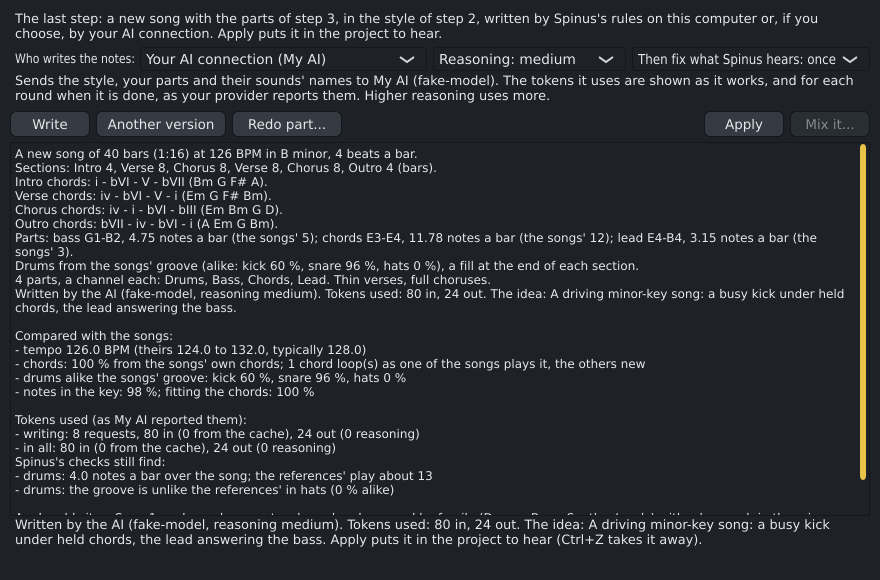
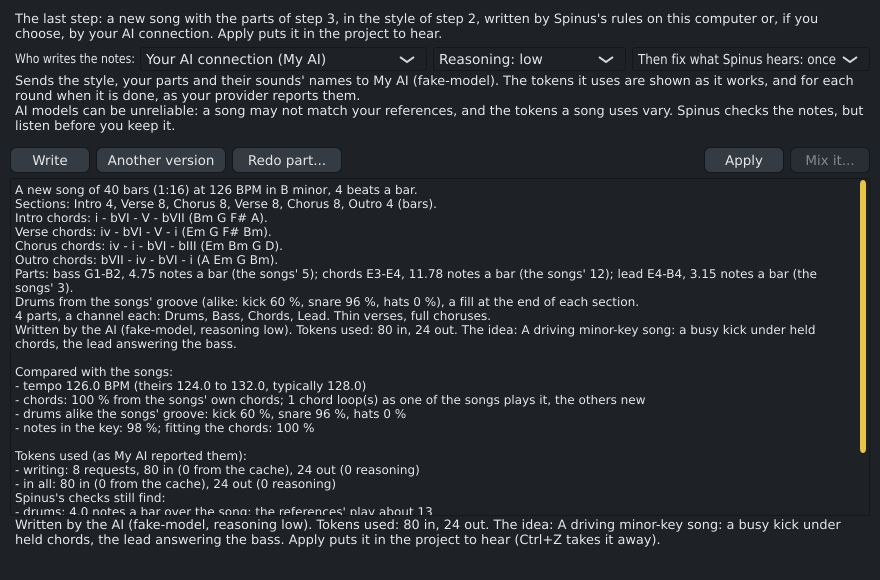
Track creator AI writer: low reasoning by default, and a disclaimer
Owner answers on #36. The page starts at low reasoning (real runs showed
the harness reasoning again before every step); the list still offers
the model's own, medium, high and extra high, the higher ones labelled
as using more or many more tokens. A model that refuses a level is asked
once more with the lowest it names (or medium for low), for the rest of
the loop too, and the song's note says so. No step limit or groove
check: the page and the manual say that AI models can be unreliable and
to listen before keeping a song.

Claude-Session: https://claude.ai/code/session_0119Ng2zVPDK28ZkS9jKhGci

diff --git a/src/ui/SongWriterPanel.cpp b/src/ui/SongWriterPanel.cpp
@@ -189,11 +189,14 @@ SongWriterPanel::SongWriterPanel (Session& s, std::function<Context()> c) : sess
     };
     effortBox.addItem ("Reasoning: the model's own", 1);
     effortBox.addItem ("Reasoning: low", 2);
-    effortBox.addItem ("Reasoning: medium", 3);
-    effortBox.addItem ("Reasoning: high", 4);
-    effortBox.addItem ("Reasoning: extra high", 5);
-    effortBox.setSelectedId (1, juce::dontSendNotification);
-    effortBox.setTooltip ("How hard the model thinks before it writes: higher levels use more tokens");
+    effortBox.addItem ("Reasoning: medium (more tokens)", 3);
+    effortBox.addItem ("Reasoning: high (many more tokens)", 4);
+    effortBox.addItem ("Reasoning: extra high (many more tokens)", 5);
+    // Low by default (owner decision): the harness asks for each step, and reasoning before every one adds up. A
+    // model without low uses the lowest it offers, and the page says so.
+    effortBox.setSelectedId (2, juce::dontSendNotification);
+    effortBox.setTooltip ("How hard the model thinks before each step: low at first; higher levels use many more "
+                          "tokens. A model without the level chosen uses the lowest it offers");
     roundsBox.addItem ("Then fix what Spinus hears: no", 1);
     roundsBox.addItem ("Then fix what Spinus hears: once", 2);
     roundsBox.addItem ("Then fix what Spinus hears: twice", 3);
@@ -869,7 +872,9 @@ void SongWriterPanel::refreshConnection()
                 aiAvailable ? "Sends the style, your parts and their sounds' names to " + connectionName + " (" +
                                   result["model"].toString() +
                                   "). The tokens it uses are shown as it works, and for each round when it is done, "
-                                  "as your provider reports them. Higher reasoning uses more."
+                                  "as your provider reports them.\nAI models can be unreliable: a song may not match "
+                                  "your references, and the tokens a song uses vary. Spinus checks the notes, but "
+                                  "listen before you keep it."
                             : result["reason"].toString(),
                 juce::dontSendNotification);
             updateButtons();
@@ -1061,7 +1066,7 @@ void SongWriterPanel::resized()
     if (refineButton.isVisible())
         refineButton.setBounds (area.removeFromTop (26).removeFromLeft (420));
     if (infoLabel.isVisible())
-        infoLabel.setBounds (area.removeFromTop (34));
+        infoLabel.setBounds (area.removeFromTop (70)); // four lines: what is sent, the tokens, the disclaimer
     area.removeFromTop (4);
     {
         auto r = area.removeFromTop (28);

diff --git a/ai/spinus_ai/gateway.py b/ai/spinus_ai/gateway.py
@@ -617,7 +617,43 @@ async def complete_responses(
 # ---------------------------------------------------------------------------------------------------
 
 
+def offered_effort(asked: str, error: str) -> str | None:
+    """The level to ask again with when a model refused the reasoning level `asked`: the lowest it says it supports
+    ("Supported values are: 'medium' and 'high'"), else medium for low; None when the refusal is about something
+    else, or names no level to use."""
+    if asked not in EFFORTS or not ("effort" in error.lower() or "reasoning" in error.lower()):
+        return None
+    if "turn its reasoning off" in error:  # the chat API's own retry already failed: no level would do
+        return None
+    tail = error[error.lower().find("support") :] if "support" in error.lower() else ""
+    named = [level for level in EFFORTS if level != asked and f"'{level}'" in tail]
+    if named:
+        return named[0]
+    # Nothing named: only the default low (a model whose least reasoning is more) steps up, never a level the user
+    # chose higher, which is not guessed at.
+    return "medium" if asked == "low" else None
+
+
 async def complete(
+    client: httpx.AsyncClient, connection: Connection, key: str | None, request: Request, on_text: OnText
+) -> Completion:
+    """The model's answer. A model that refuses the reasoning level asked for is asked once more with the lowest
+    level it offers (request.effort changes, so a tool loop's later turns use it too), and the answer says so."""
+    try:
+        return await complete_once(client, connection, key, request, on_text)
+    except ProviderError as error:
+        asked = request.effort
+        level = offered_effort(asked, str(error)) if error.kind == "bad_request" else None
+        if level is None:
+            raise
+        request.effort = level
+        completion = await complete_once(client, connection, key, request, on_text)
+        said = f"{request.model} does not reason at the level '{asked}', so '{level}', the lowest it offers, was used."
+        completion.notice = f"{completion.notice} {said}".strip()
+        return completion
+
+
+async def complete_once(
     client: httpx.AsyncClient, connection: Connection, key: str | None, request: Request, on_text: OnText
 ) -> Completion:
     try:

diff --git a/ai/tests/test_harness.py b/ai/tests/test_harness.py
@@ -462,3 +462,35 @@ async def test_a_model_name_with_slashes_is_a_file_name(tmp_path: Path) -> None:
         "anthropic_claude-sonnet-5.5-harness-default.song.json",
         "anthropic_claude-sonnet-5.5-one-shot-default.song.json",
     ]
+
+
+def test_a_refused_reasoning_level_becomes_the_lowest_offered() -> None:
+    from spinus_ai.gateway import offered_effort
+
+    said = "Unsupported value: 'reasoning.effort' does not support 'low' with this model. Supported values are: "
+    assert offered_effort("low", said + "'medium', 'high' and 'xhigh'.") == "medium"
+    assert offered_effort("low", "reasoning effort low is not available for this model") == "medium"
+    assert offered_effort("xhigh", "reasoning effort xhigh is not available") is None  # nothing named
+    assert offered_effort("high", "Unsupported value: 'reasoning_effort' 'high'.") is None  # not guessed at
+    assert offered_effort("low", "max_tokens: 64000 > 8192") is None  # another refusal
+    assert offered_effort("", "reasoning effort") is None
+
+
+async def test_the_harness_says_when_the_model_lacks_the_level_asked(tmp_path: Path) -> None:
+    sent: list[dict[str, Any]] = []
+    fake = harness.FakeModel([[("rules_write", {"part": "bass"})], [("finish", {"summary": "s"})]], {})
+
+    def handler(request: httpx.Request) -> httpx.Response:
+        body = json.loads(request.content)
+        sent.append(body)
+        if body.get("output_config", {}).get("effort") == "low":
+            message = "output_config.effort: 'low' is not supported by this model. Supported values: 'medium', 'high'"
+            return httpx.Response(400, json={"type": "error", "error": {"message": message}})
+        return fake(request)
+
+    service = make_service(tmp_path, handler)
+    await connect(service)
+    song = await run_job(service, "ai.v1.song.compose", params(effort="low"))
+    efforts = [r["output_config"]["effort"] for r in sent]
+    assert efforts == ["low", "medium", "medium"]  # asked once at low; the rest of the loop at medium
+    assert "does not reason at the level 'low', so 'medium', the lowest it offers, was used" in song["note"]

diff --git a/ai/spinus_ai/harness.py b/ai/spinus_ai/harness.py
@@ -858,6 +858,7 @@ class Run:
     model: str = ""
     turns: int = 0
     stopped: bool = False  # the user said stop now
+    notices: list[str] = field(default_factory=list)  # what the provider changed (a reasoning level it lacks)
 
     def remember_if_best(self) -> None:
         count = len(self.workspace.issues())
@@ -902,6 +903,8 @@ async def session(
     async def on_turn(completion: Completion, route: Route) -> None:
         usage_log.add(route.connection.id, compose.FEATURE, completion.usage)
         run.by, run.model = answered_by(completion.model, []), route.model
+        if completion.notice and completion.notice not in run.notices:
+            run.notices.append(completion.notice)
         run.requests.append(
             {
                 "input": completion.usage.input_tokens,
@@ -988,7 +991,7 @@ def result_song(
         "workspace": ws.export(),
         "answer": {"parts": {p: {} for p in ws.notes}},  # what the notes say "left out" against
     }
-    song["note"] = compose.written_note(setup, composed) + note
+    song["note"] = compose.written_note(setup, composed) + note + "".join(f" {n}" for n in run.notices)
     if usage.get("cached"):
         song["note"] += f" {int(usage['cached']):,} of the input tokens were read from the provider's cache."
     return compose.finish(song, setup, composed)

diff --git a/tests/ui/SongWriterPanelTests.cpp b/tests/ui/SongWriterPanelTests.cpp
@@ -336,6 +336,8 @@ TEST_CASE ("Track creator: the AI connection composes the song with the harness'
     REQUIRE (waitFor ([&] { return panel.getInfoText().contains ("My local model"); }));
     INFO (panel.getInfoText());
     CHECK (panel.getInfoText().contains ("shown as it works"));
+    CHECK (panel.getInfoText().contains ("AI models can be unreliable"));
+    CHECK (panel.getEffort() == "low"); // the default
     CHECK_FALSE (panel.getInfoText().contains ("About"));
     panel.setAiWriter (true);
     REQUIRE (panel.isAiWriter());
@@ -466,7 +468,6 @@ TEST_CASE ("Track creator AI writer screenshot for the manual", "[.screenshot][m
     panel.refreshConnection();
     REQUIRE (waitFor ([&] { return panel.getInfoText().contains ("My AI"); }));
     panel.setAiWriter (true);
-    panel.setEffort ("medium");
     REQUIRE (panel.write());
     REQUIRE (waitFor ([&] { return ! panel.isBusy() && ! panel.isComposing(); }, 120000));
     juce::MessageManager::getInstance()->runDispatchLoopUntil (200);

diff --git a/src/ui/SongWriterPanel.h b/src/ui/SongWriterPanel.h
@@ -82,7 +82,8 @@ public:
     /** Who writes: false, Spinus (offline); true, the AI connection (when there is one). */
     void setAiWriter (bool on);
     bool isAiWriter() const;
-    /** The AI's reasoning level: "" (the model's own), "low", "medium", "high", "xhigh" (where offered). */
+    /** The AI's reasoning level: "" (the model's own), "low" (the default), "medium", "high", "xhigh" (where
+        offered). */
     void setEffort (const juce::String& effort);
     juce::String getEffort() const;
     /** How many times what Spinus hears goes back to the AI (0 to 3; 1 by default). */

diff --git a/DESIGN.md b/DESIGN.md
@@ -575,7 +575,7 @@ The user gives a few reference songs (an album or a selection) and, in the end, 
 
 5. **The AI writes the song** (alpha 4, experimental, opt-in; owner decisions 2026-10-28: the full AI writer as planned, composed through a "music harness" as a coding agent works with tools, no token cap). **Who writes the notes** on the Write page: Spinus's rules (the default, nothing sent) or the user's AI connection (routing feature `patterns`). `ai.v1.song.compose` (`way`: `harness`, the default, or `one-shot`) returns the same song shape as `ai.v1.song.write`, so Apply, its one undo step, Redo part (`compose.redo_kept`: only what is redone is the rules', the AI's notes stay) and the Replace question are unchanged.
    - **The harness** (`spinus_ai/harness.py`): the song is a working copy in the AI service (`Workspace`: the form with chords, energy, tempo and key; each part's notes per section; picked sounds; named motifs), started from the rules' form. The model only reads and edits it through tools with strict schemas and few-line text answers: `brief`, `form`, `read`, `list_sounds`; `set_form`, `set_chords`, `write` (a loop repeated), `edit` (some bars), `motif` + `place` (transpose, repeat, fit to the chords), `copy`, `pick_sound`, `rules_write` (the offline writer fills a part); `check` (issue lines with locations: out of key, rubbing on the beat, same register, notes a bar and groove against the references, repetition, empty parts, phrase lengths) and `measure` (the levels the app measured, a balance from velocities); `finish`. Every note is validated as it comes (`compose.parse_notes`: the grid, the loop and section, the role's range by octaves, drum names or General MIDI to the kit's drums, NaN and junk dropped). The loop is the assistant's (`assistant.tool_loop`, shared). Why tools instead of one answer with the whole song: a loop, a motif or a copy costs a line instead of the notes again, checks find problems before the user hears them, and a fix is a patch of a few bars, not a new song; `python -m spinus_ai.harness eval` measures both ways on tokens and the checks' score.
-   - **Tokens**: no cap (owner: a write must never stop almost finished) and no estimate before sending (owner, 2026-10-28: "Lets not provide estimate at all"; nobody knows how long a model will think). Each request has the model's whole output allowance (Anthropic: 64000, or what a 400 names; OpenAI-compatible: none sent); an answer cut off at it is continued and joined (`compose.salvage`). Reasoning levels go to the provider (`output_config.effort`; `reasoning_effort`; OpenRouter's `reasoning`). Usage is what the provider reports, per request and round, shown live and after: all input (Anthropic's cache reads and writes included), the cached part, output and reasoning tokens (Anthropic `output_tokens_details.thinking_tokens`, OpenAI `completion_tokens_details.reasoning_tokens`); nothing is kept beyond the song. On Anthropic the request is prompt-cached, reasoning blocks (`gateway.Thinking`, with signatures) go back unchanged, and old tool calls and results are cleared by the provider once a request passes 30,000 input tokens (context editing, `clear_tool_uses_20250919`, beta `context-management-2025-06-27`: all but the last 8 calls, at least 8,000 tokens at a time so the cache is rewritten seldom; the working copy keeps everything). Why the provider clears and Spinus never trims the history itself: models with preserved thinking sign their reasoning against the conversation as sent and refuse it (400 on enforced accounts) or drop it once an earlier turn was edited, while the provider's own clearing does not count as an edit. On the scripted fake, clearing changes nothing: the harness's input is its fixed start (system prompt, tools, brief, about 3,600 tokens) sent on each turn, which the cache, not clearing, makes cheaper. Cost is controlled by the reasoning level, the fix rounds (0-3, default 1) and **Stop now** (`ai.v1.song.composeStop`: after the current turn, the best checked version); Cancel keeps the song shown before.
+   - **Tokens**: no cap (owner: a write must never stop almost finished) and no estimate before sending (owner, 2026-10-28: "Lets not provide estimate at all"; nobody knows how long a model will think). Each request has the model's whole output allowance (Anthropic: 64000, or what a 400 names; OpenAI-compatible: none sent); an answer cut off at it is continued and joined (`compose.salvage`). Reasoning levels go to the provider (`output_config.effort`; `reasoning_effort`; OpenRouter's `reasoning`; the Responses API's `reasoning`), low by default on the page (owner, 2026-10-28: real runs showed the harness reasoning again before every step); a model that refuses a level is asked once more with the lowest it offers (`gateway.offered_effort`), and the song's note says so. The page says AI models can be unreliable (owner: a disclaimer, no step limit or groove check). Usage is what the provider reports, per request and round, shown live and after: all input (Anthropic's cache reads and writes included), the cached part, output and reasoning tokens (Anthropic `output_tokens_details.thinking_tokens`, OpenAI `completion_tokens_details.reasoning_tokens`); nothing is kept beyond the song. On Anthropic the request is prompt-cached, reasoning blocks (`gateway.Thinking`, with signatures) go back unchanged, and old tool calls and results are cleared by the provider once a request passes 30,000 input tokens (context editing, `clear_tool_uses_20250919`, beta `context-management-2025-06-27`: all but the last 8 calls, at least 8,000 tokens at a time so the cache is rewritten seldom; the working copy keeps everything). Why the provider clears and Spinus never trims the history itself: models with preserved thinking sign their reasoning against the conversation as sent and refuse it (400 on enforced accounts) or drop it once an earlier turn was edited, while the provider's own clearing does not count as an edit. On the scripted fake, clearing changes nothing: the harness's input is its fixed start (system prompt, tools, brief, about 3,600 tokens) sent on each turn, which the cache, not clearing, makes cheaper. Cost is controlled by the reasoning level, the fix rounds (0-3, default 1) and **Stop now** (`ai.v1.song.composeStop`: after the current turn, the best checked version); Cancel keeps the song shown before.
    - **Fix what Spinus hears**: after finish the page plays each part with its sound (`SongWriterPanel::balance`, the sound helper's render mode) and sends the levels and problems back for a revision round on the same working copy (`composed.workspace` in the song).
    - Outside the app, for development and evaluation: `python -m spinus_ai.harness brief` (a brief from a description), `mcp` (the same tools as an MCP server over stdio, so a coding agent composes through the identical harness; finish saves the song) and `eval` (one-shot against harness at each reasoning level, with a scripted fake model in tests and CI, the owner's key in `tools/owner-checks/ai-compose-tokens.sh`).
 

diff --git a/docs/user/track-creator.md b/docs/user/track-creator.md
@@ -465,8 +465,13 @@ made no sound (its notes may be outside the instrument's range) and the balance.
 on the same working copy. If no part could be played (Spinus's sound helper isn't there), there's nothing new to
 tell the AI, so no fix round runs.
 
-**Reasoning** (the model's own, low, medium, high, or extra high where the model offers it) is how hard the
-model thinks before it writes. Higher levels use more tokens.
+**Reasoning** is how hard the model thinks before each step: low at first, or the model's own, medium, high,
+or extra high where the model offers it. Higher levels use many more tokens, because the AI thinks again
+before every step. A model that can't reason at the level you chose uses the lowest it offers, and the page
+says so.
+
+**AI models can be unreliable.** A song may not match your references, and the tokens a song uses vary from
+one run to the next. Spinus checks the notes, but listen before you keep it.
 
 **How many tokens**: Spinus doesn't guess in advance, since nobody knows how long a model will think. While the
 AI works, the page shows the tokens used so far. When it's done, it lists each round's tokens as your provider

diff --git a/CHANGELOG.md b/CHANGELOG.md
@@ -16,7 +16,9 @@ feature; [Known issues](docs/user/known-issues.md) lists what doesn't work yet.
   (a silent part, the balance) goes back to the AI to fix (once by default, up to 3 times).
 - **Tokens, as your provider reports them**: no guess before you send; while it works, the tokens so far;
   after, each round's input (and the part read from the provider's cache), output and reasoning. **Reasoning**
-  sets how hard the model thinks (higher uses more). No token cap: an answer cut off at the model's own limit is
+  sets how hard the model thinks before each step: low by default; higher levels (up to extra high, where the
+  model offers it) use many more tokens; a model without the level chosen uses the lowest it offers. AI models
+  can be unreliable: listen before you keep a song. No token cap: an answer cut off at the model's own limit is
   continued and joined. **Stop now, keep the best** keeps the best checked version; **Cancel** keeps the song
   shown before.
 - For developers: the same tools as an MCP server, and a comparison of one-answer and harness writing on the
